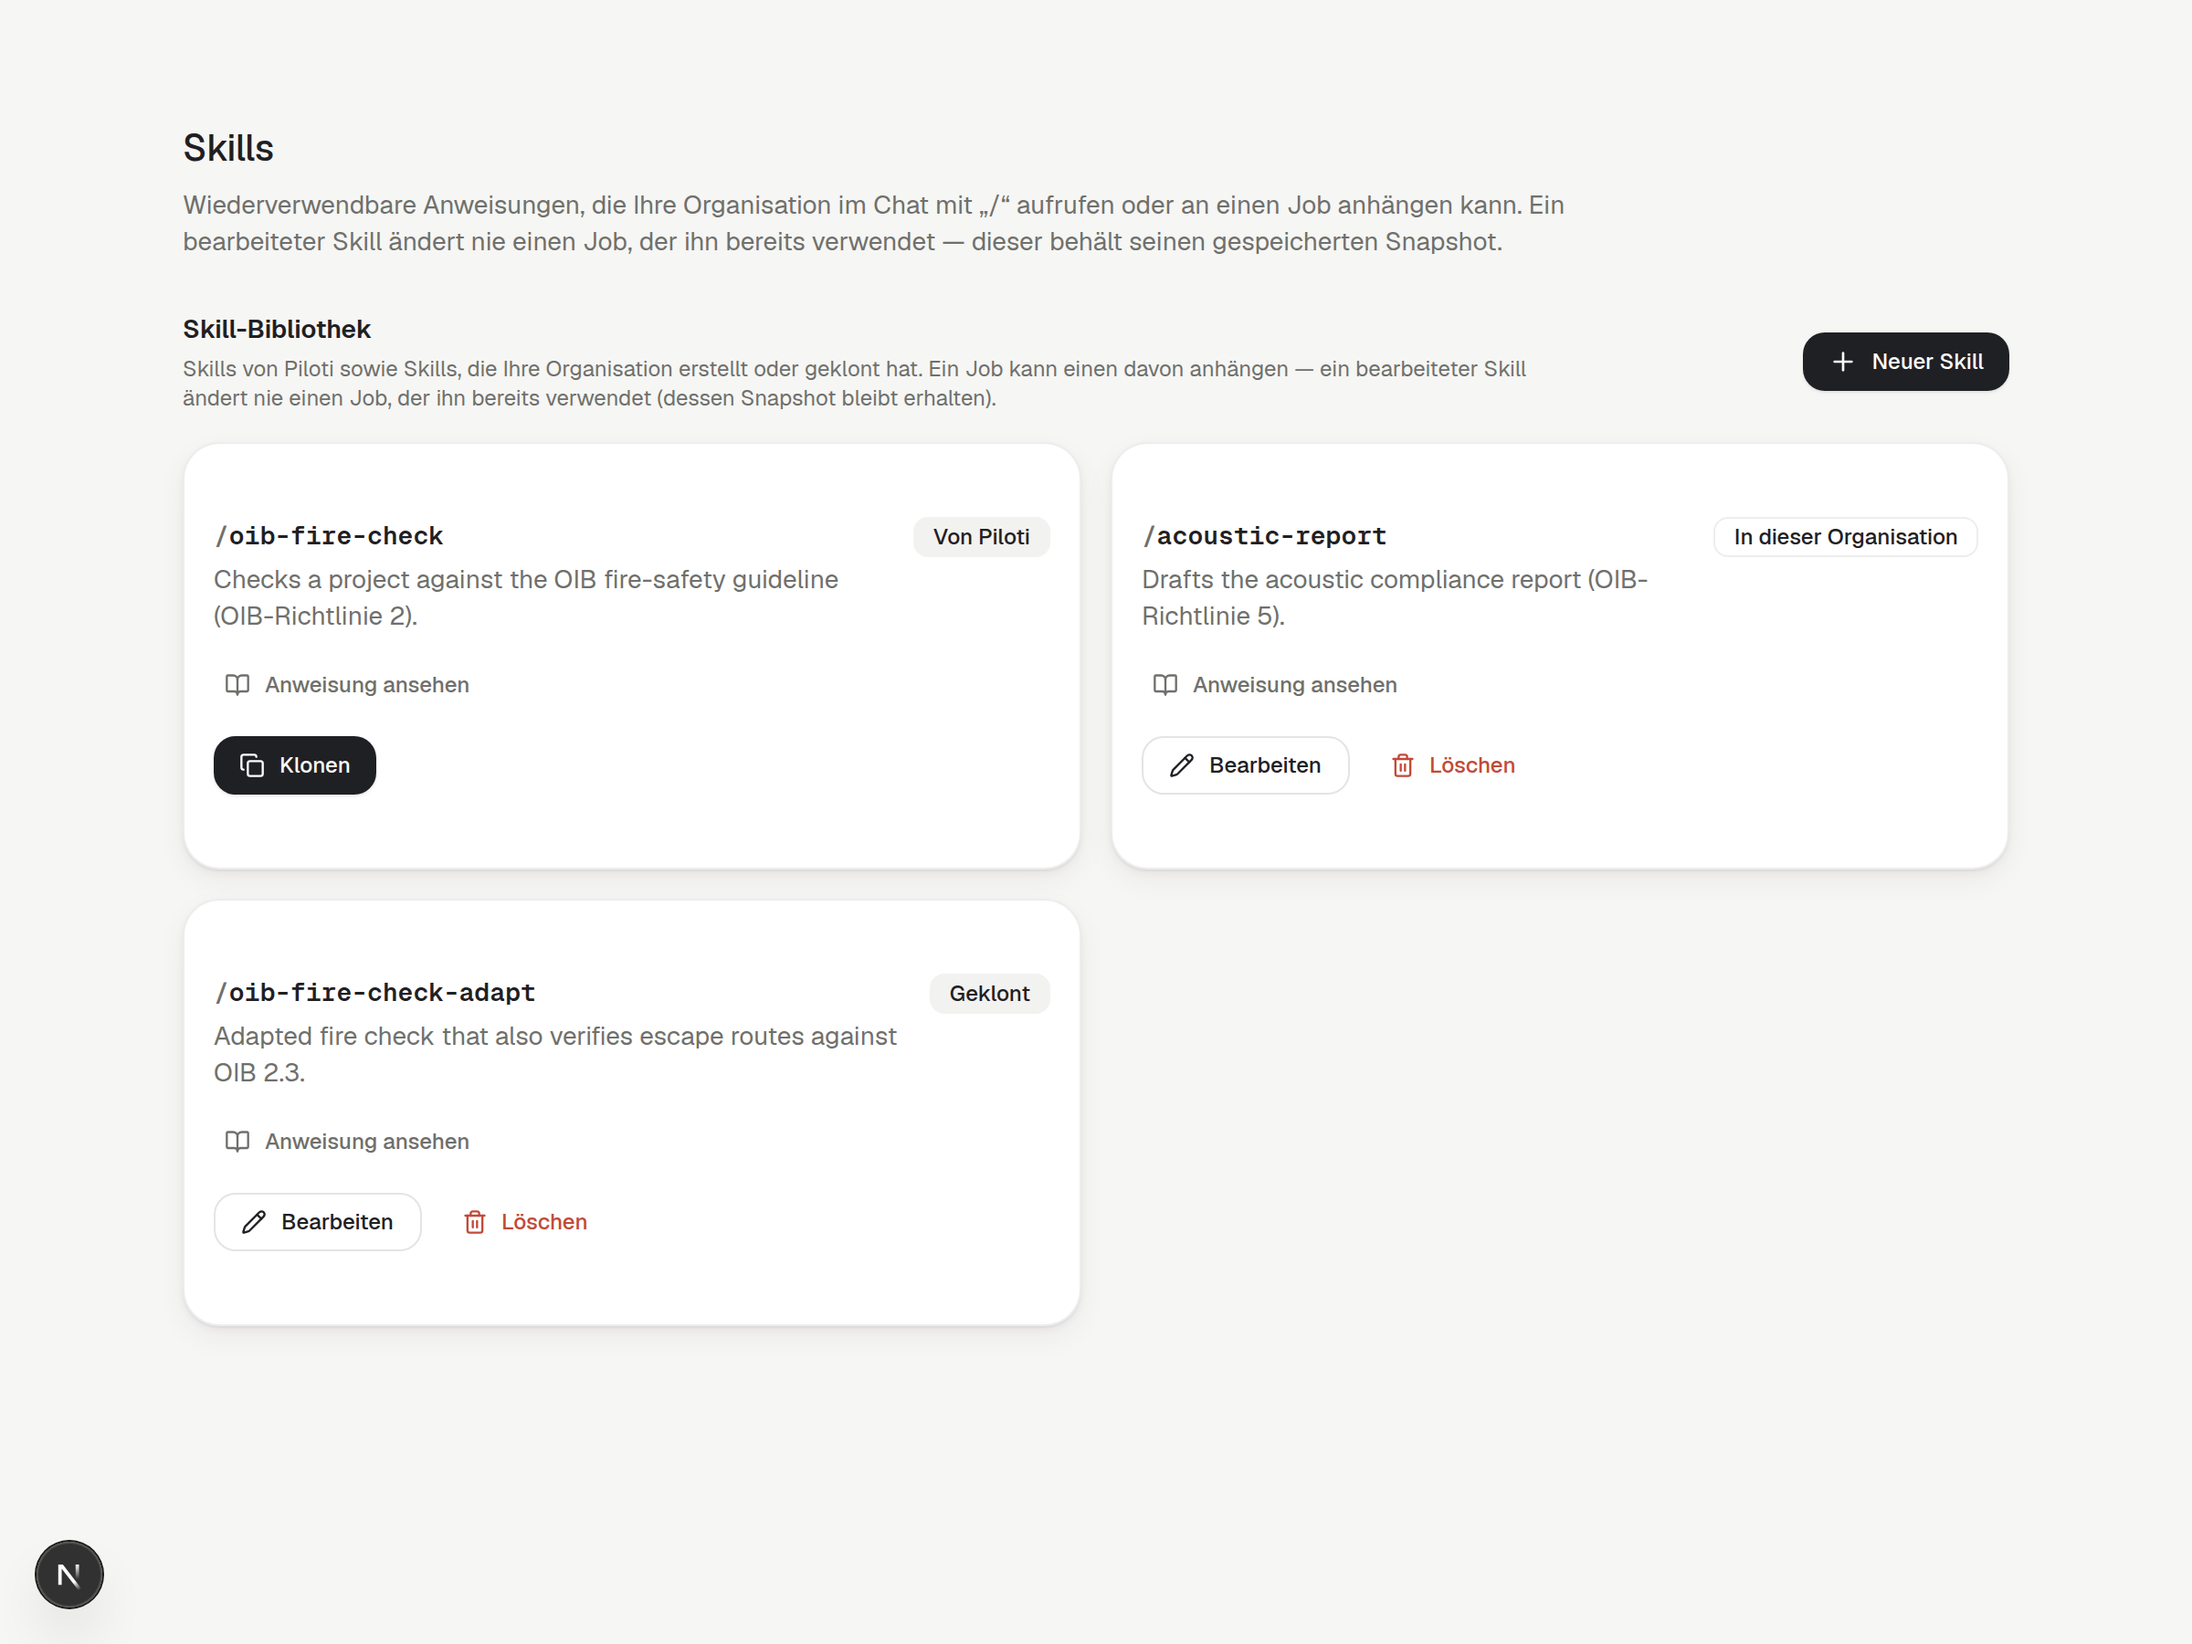
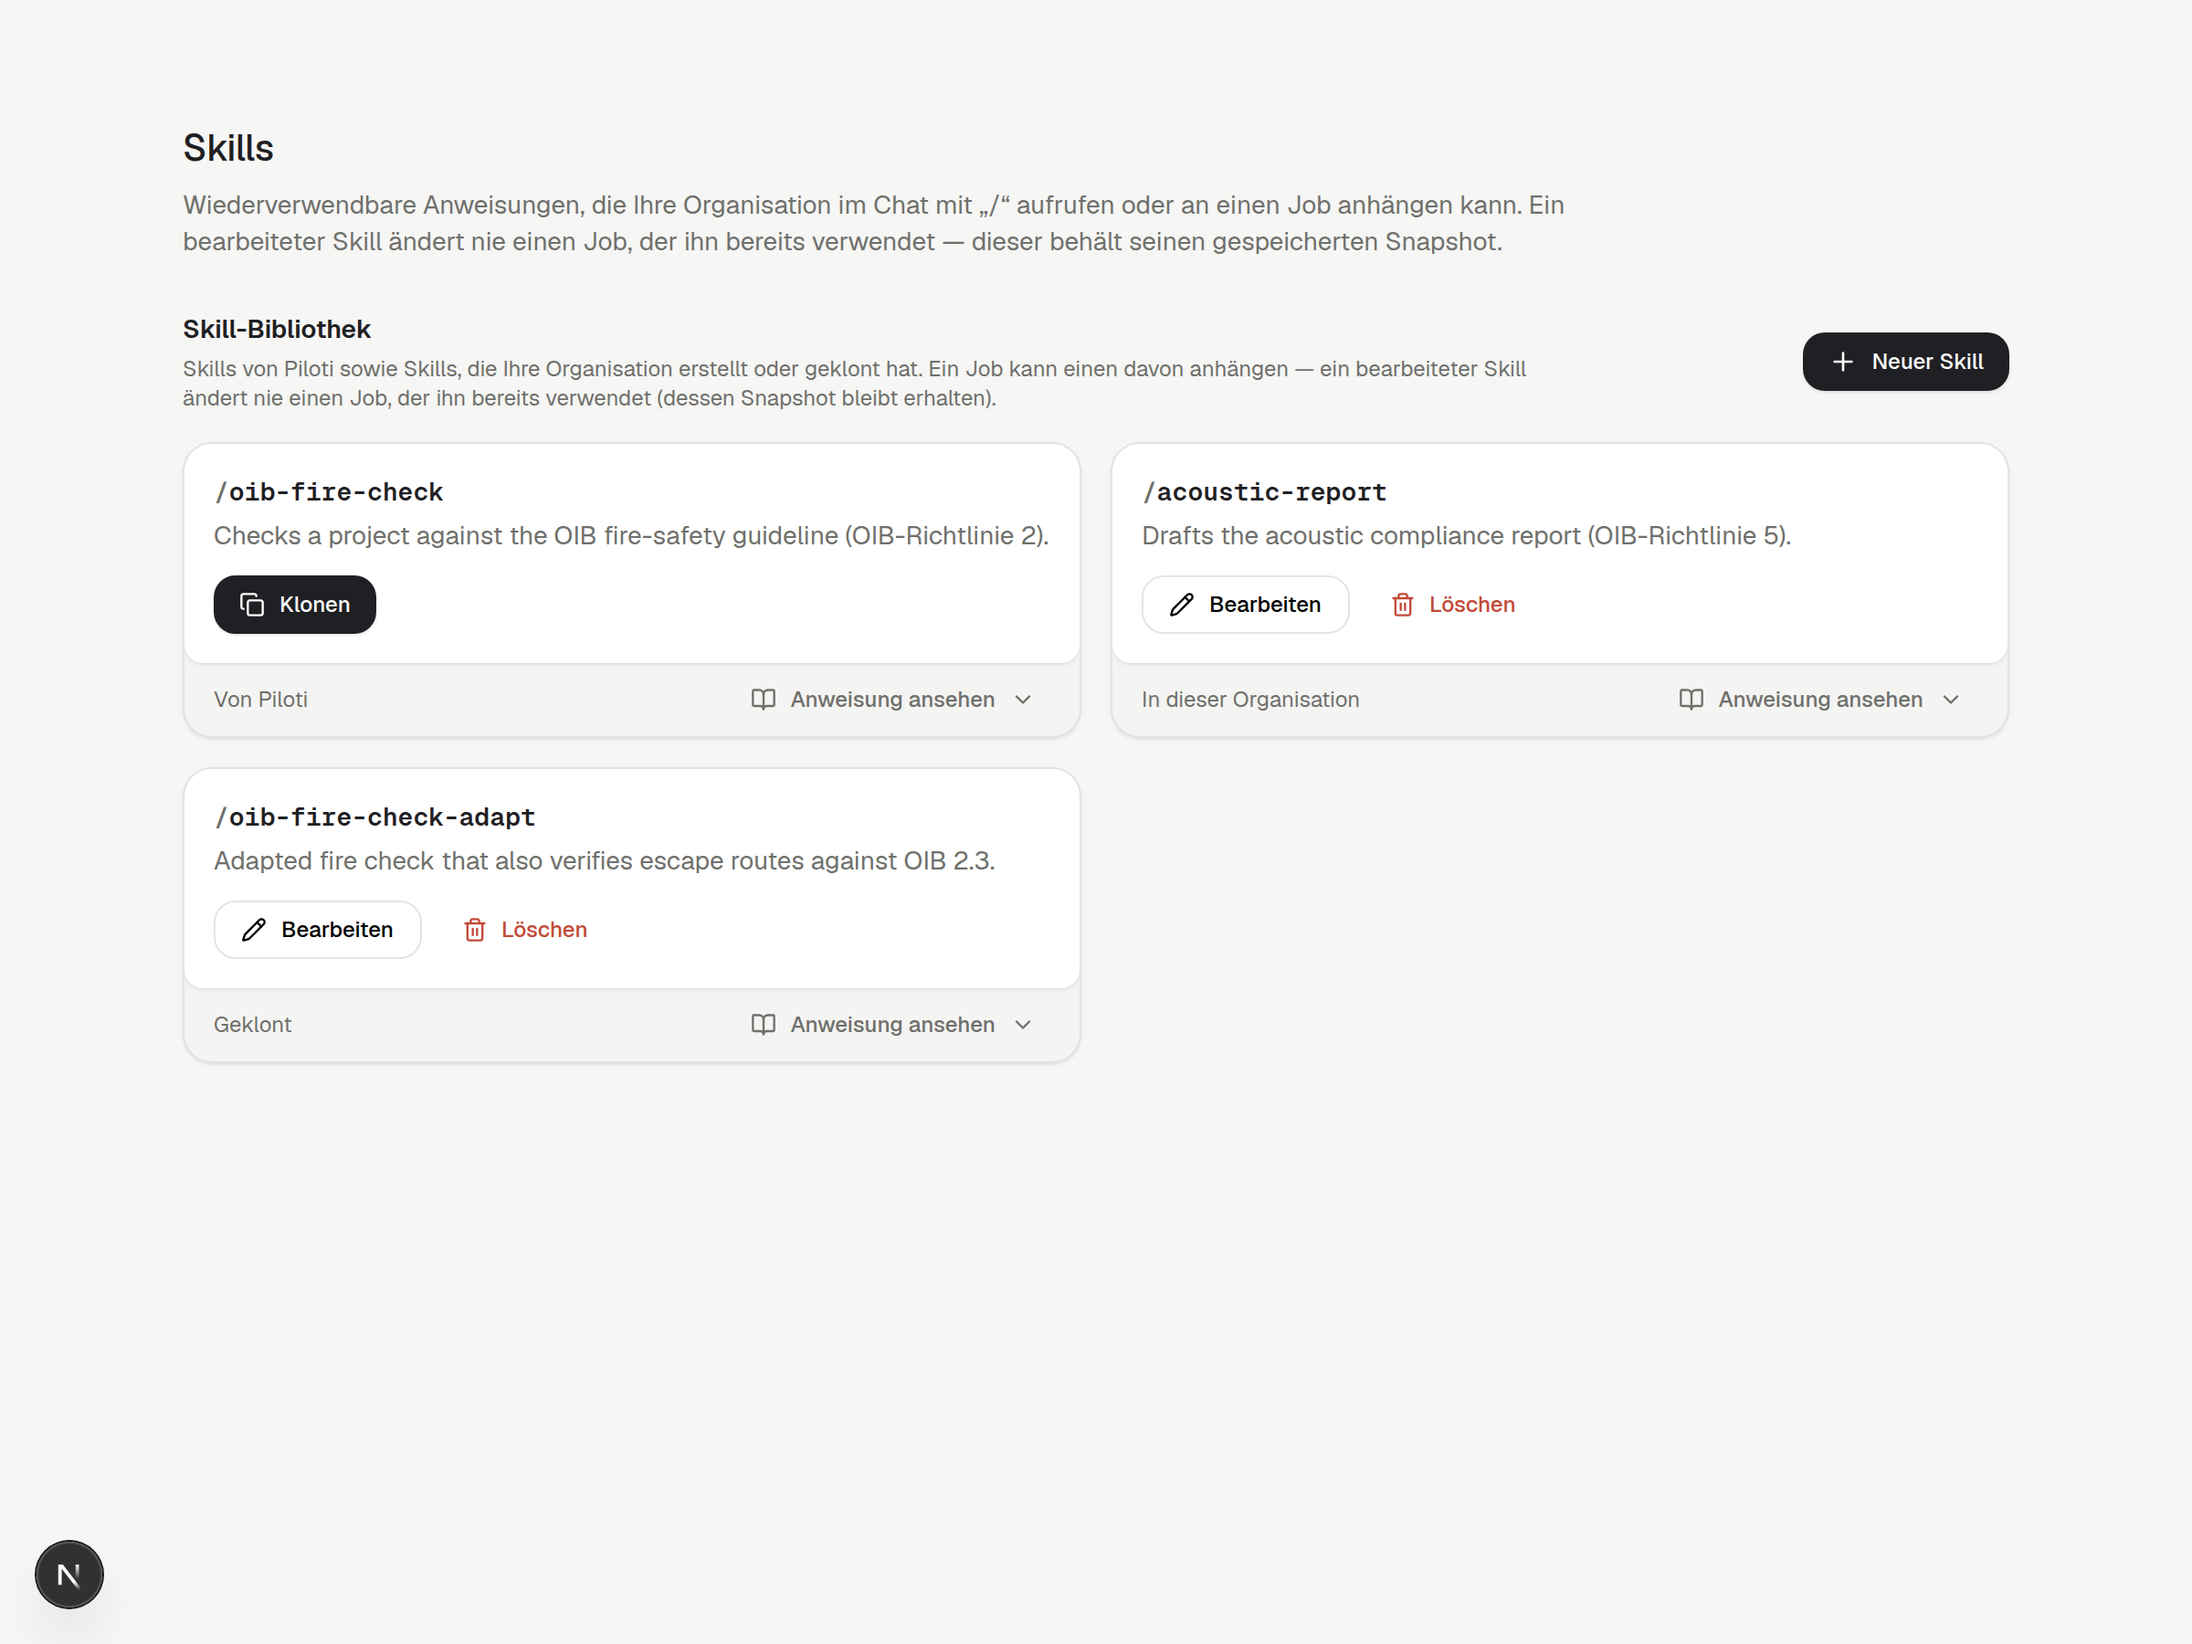
refactor(skills): put the skill cards on the raised card too
A skill card was a plain white box while a job card and a file card were the
raised shape — same page, same product, two different cards. It uses the
primitive now, so the three read as one object.

The origin moves off the header and onto the footer tray as plain text. Every
skill has an origin, so a badge for it was on every single row, and a badge
that is always there is decoration. The header's badge slot now belongs to the
scope alone, which appears only when a skill is NOT available everywhere — the
case actually worth looking at.

Claude-Session: https://claude.ai/code/session_018sZbwcfwp2uQCjtGgFHwnG

diff --git a/frontends/ui/src/features/skills/components/skill-toolbox.tsx b/frontends/ui/src/features/skills/components/skill-toolbox.tsx
@@ -3,20 +3,30 @@
 /**
  * Skill toolbox — the "Skill toolbox" section of the Skills tab. Renders the
  * merged toolbox (builtin platform skills + org rows, org rows shadowing same
- * names) as cards: an origin badge, the agent scope where there is one, the
- * description, a collapsible verbatim instruction preview, and actions.
+ * names) as raised cards: the name as the token it is, the description, the
+ * agent scope where there is one, actions, and — on the card's footer tray —
+ * the origin plus a collapsible verbatim instruction preview.
  * Nothing here is about time or output: a skill says neither. Builtin platform
  * skills can be cloned into the org; org-authored/cloned rows can be edited
  * and deleted (org:skills:manage — without it the section is read-only).
  */
 
 import { useCallback, useEffect, useState } from 'react'
-import { AlertCircle, BookOpen, Copy, Pencil, Plus, Sparkles, Trash2 } from 'lucide-react'
+import {
+  AlertCircle,
+  BookOpen,
+  ChevronDown,
+  Copy,
+  Pencil,
+  Plus,
+  Sparkles,
+  Trash2,
+} from 'lucide-react'
 import { toast } from 'sonner'
 import { Alert, AlertDescription, AlertTitle } from '@/components/ui/alert'
 import { Badge } from '@/components/ui/badge'
 import { Button } from '@/components/ui/button'
-import { Card, CardContent } from '@/components/ui/card'
+import { RaisedCard, RaisedCardBody, RaisedCardFooter } from '@/components/ui/raised-card'
 import { Collapsible, CollapsibleContent, CollapsibleTrigger } from '@/components/ui/collapsible'
 import { EmptyState } from '@/components/ui/empty-state'
 import { Skeleton } from '@/components/ui/skeleton'
@@ -34,20 +44,20 @@ interface SkillToolboxProps {
   onEdit: (skill: SkillListItem | null) => void
 }
 
-function originBadge(
-  t: ReturnType<typeof useTranslations>,
-  skill: SkillListItem,
-): JSX.Element | null {
-  if (skill.origin === 'platform') return <Badge variant="secondary">{t('toolbox.origin.platform')}</Badge>
-  if (skill.origin === 'platform-clone') return <Badge variant="secondary">{t('toolbox.origin.cloned')}</Badge>
-  return <Badge variant="outline">{t('toolbox.origin.org')}</Badge>
+/**
+ * Where the skill came from. This reads as plain text on the card's footer tab
+ * rather than as a badge in the header: every row has an origin, and a badge
+ * that is always present is decoration, not signal. The header keeps the badge
+ * slot for the scope, which appears only when a skill is NOT available
+ * everywhere — the thing worth a second look.
+ */
+function originLabel(t: ReturnType<typeof useTranslations>, skill: SkillListItem): string {
+  if (skill.origin === 'platform') return t('toolbox.origin.platform')
+  if (skill.origin === 'platform-clone') return t('toolbox.origin.cloned')
+  return t('toolbox.origin.org')
 }
 
-export function SkillToolbox({
-  canManage,
-  onClone,
-  onEdit,
-}: SkillToolboxProps): JSX.Element {
+export function SkillToolbox({ canManage, onClone, onEdit }: SkillToolboxProps): JSX.Element {
   const t = useTranslations('skills')
   const [skills, setSkills] = useState<SkillListItem[] | null>(null)
   const [error, setError] = useState(false)
@@ -88,10 +98,10 @@ export function SkillToolbox({
     <section className="space-y-4" aria-labelledby="skill-toolbox-heading">
       <div className="flex flex-wrap items-center justify-between gap-3">
         <div className="space-y-1">
-          <h2 id="skill-toolbox-heading" className="text-sm font-semibold text-foreground">
+          <h2 id="skill-toolbox-heading" className="text-foreground text-sm font-semibold">
             {t('toolbox.heading')}
           </h2>
-          <p className="max-w-3xl text-xs text-muted-foreground">{t('toolbox.hint')}</p>
+          <p className="text-muted-foreground max-w-3xl text-xs">{t('toolbox.hint')}</p>
         </div>
         {canManage && (
           <Button size="sm" onClick={() => onEdit(null)}>
@@ -139,52 +149,45 @@ export function SkillToolbox({
       {skills !== null && !error && skills.length > 0 && (
         <div className="grid gap-4 lg:grid-cols-2">
           {skills.map((skill) => (
-            <Card key={skill.name}>
-              <CardContent className="flex flex-col gap-3 p-4">
+            // The same card as a job and a file (components/ui/raised-card): a
+            // white block laid into a tray, with the quiet provenance and the
+            // instruction disclosure showing on the tray beneath it.
+            <RaisedCard key={skill.name}>
+              <RaisedCardBody className="flex flex-1 flex-col gap-3 p-4">
                 <div className="flex items-start justify-between gap-3">
                   <div className="min-w-0 space-y-1">
-                    <h3 className="truncate font-mono text-sm font-semibold text-foreground">
+                    <h3 className="text-foreground truncate font-mono text-sm font-semibold">
                       {/* Shown as the token it is. A skill's name is not a title
                           — it is what somebody types after a slash in chat, and
                           this card is where an author learns that. */}
-                      <span aria-hidden className="text-muted-foreground">/</span>
+                      <span aria-hidden className="text-muted-foreground">
+                        /
+                      </span>
                       {skill.name}
                     </h3>
-                    <p className="line-clamp-2 text-sm text-muted-foreground">{skill.description}</p>
+                    <p className="text-muted-foreground line-clamp-2 text-sm">
+                      {skill.description}
+                    </p>
                   </div>
-                  <div className="flex shrink-0 flex-wrap items-center justify-end gap-1.5">
-                    {originBadge(t, skill)}
-                    {/* Scope, and ONLY when there is one. This used to be an
-                        execution-mode badge on every row, which said what a
-                        scheduled run would produce while reading as though it
-                        said where the skill applied — and a badge every row
-                        carries tells you nothing anyway. A skill reaches both
-                        agents unless it says otherwise, so the badge appears
-                        exactly when that is not true. */}
-                    {agentScopeLabelKey(skill.metadata['grid-agents']) && (
-                      <Badge variant="outline">
-                        {t(`toolbox.scope.${agentScopeLabelKey(skill.metadata['grid-agents'])}`)}
-                      </Badge>
-                    )}
-                  </div>
+                  {/* Scope, and ONLY when there is one. This used to be an
+                      execution-mode badge on every row, which said what a
+                      scheduled run would produce while reading as though it
+                      said where the skill applied — and a badge every row
+                      carries tells you nothing anyway. A skill reaches both
+                      agents unless it says otherwise, so the badge appears
+                      exactly when that is not true. */}
+                  {agentScopeLabelKey(skill.metadata['grid-agents']) && (
+                    <Badge variant="outline" className="shrink-0">
+                      {t(`toolbox.scope.${agentScopeLabelKey(skill.metadata['grid-agents'])}`)}
+                    </Badge>
+                  )}
                 </div>
 
-                <Collapsible>
-                  <CollapsibleTrigger asChild>
-                    <Button variant="ghost" size="sm" className="-ml-2 w-fit text-muted-foreground">
-                      <BookOpen className="size-3.5" aria-hidden />
-                      {t('toolbox.actions.viewBody')}
-                    </Button>
-                  </CollapsibleTrigger>
-                  <CollapsibleContent className="border-t border-border pt-2">
-                    <pre className="max-h-64 overflow-auto whitespace-pre-wrap rounded-lg bg-muted/40 p-3 font-mono text-xs leading-relaxed text-foreground">
-                      {skill.body}
-                    </pre>
-                  </CollapsibleContent>
-                </Collapsible>
-
+                {/* `mt-auto` pins the actions to the bottom of the white block,
+                    so they line up across a grid row whose descriptions ran to
+                    different lengths. */}
                 {canManage && (
-                  <div className="flex flex-wrap items-center gap-2">
+                  <div className="mt-auto flex flex-wrap items-center gap-2">
                     {skill.origin === 'platform' ? (
                       <Button
                         size="sm"
@@ -219,8 +222,38 @@ export function SkillToolbox({
                     )}
                   </div>
                 )}
-              </CardContent>
-            </Card>
+              </RaisedCardBody>
+
+              {/* The tray: where the skill came from on the left, the way into
+                  its verbatim instruction on the right — the same one-row shape
+                  a job card's tray has. */}
+              <RaisedCardFooter>
+                <Collapsible className="w-full">
+                  <div className="flex w-full items-center gap-2">
+                    <span className="min-w-0 truncate">{originLabel(t, skill)}</span>
+                    <CollapsibleTrigger asChild>
+                      <Button
+                        variant="ghost"
+                        size="sm"
+                        className="text-muted-foreground group -my-1 ml-auto h-7 shrink-0 px-2"
+                      >
+                        <BookOpen className="size-3.5" aria-hidden />
+                        {t('toolbox.actions.viewBody')}
+                        <ChevronDown
+                          className="size-3.5 transition-transform group-data-[state=open]:rotate-180"
+                          aria-hidden
+                        />
+                      </Button>
+                    </CollapsibleTrigger>
+                  </div>
+                  <CollapsibleContent className="pt-2">
+                    <pre className="bg-muted/40 text-foreground max-h-64 overflow-auto whitespace-pre-wrap rounded-lg p-3 font-mono text-xs leading-relaxed">
+                      {skill.body}
+                    </pre>
+                  </CollapsibleContent>
+                </Collapsible>
+              </RaisedCardFooter>
+            </RaisedCard>
           ))}
         </div>
       )}
